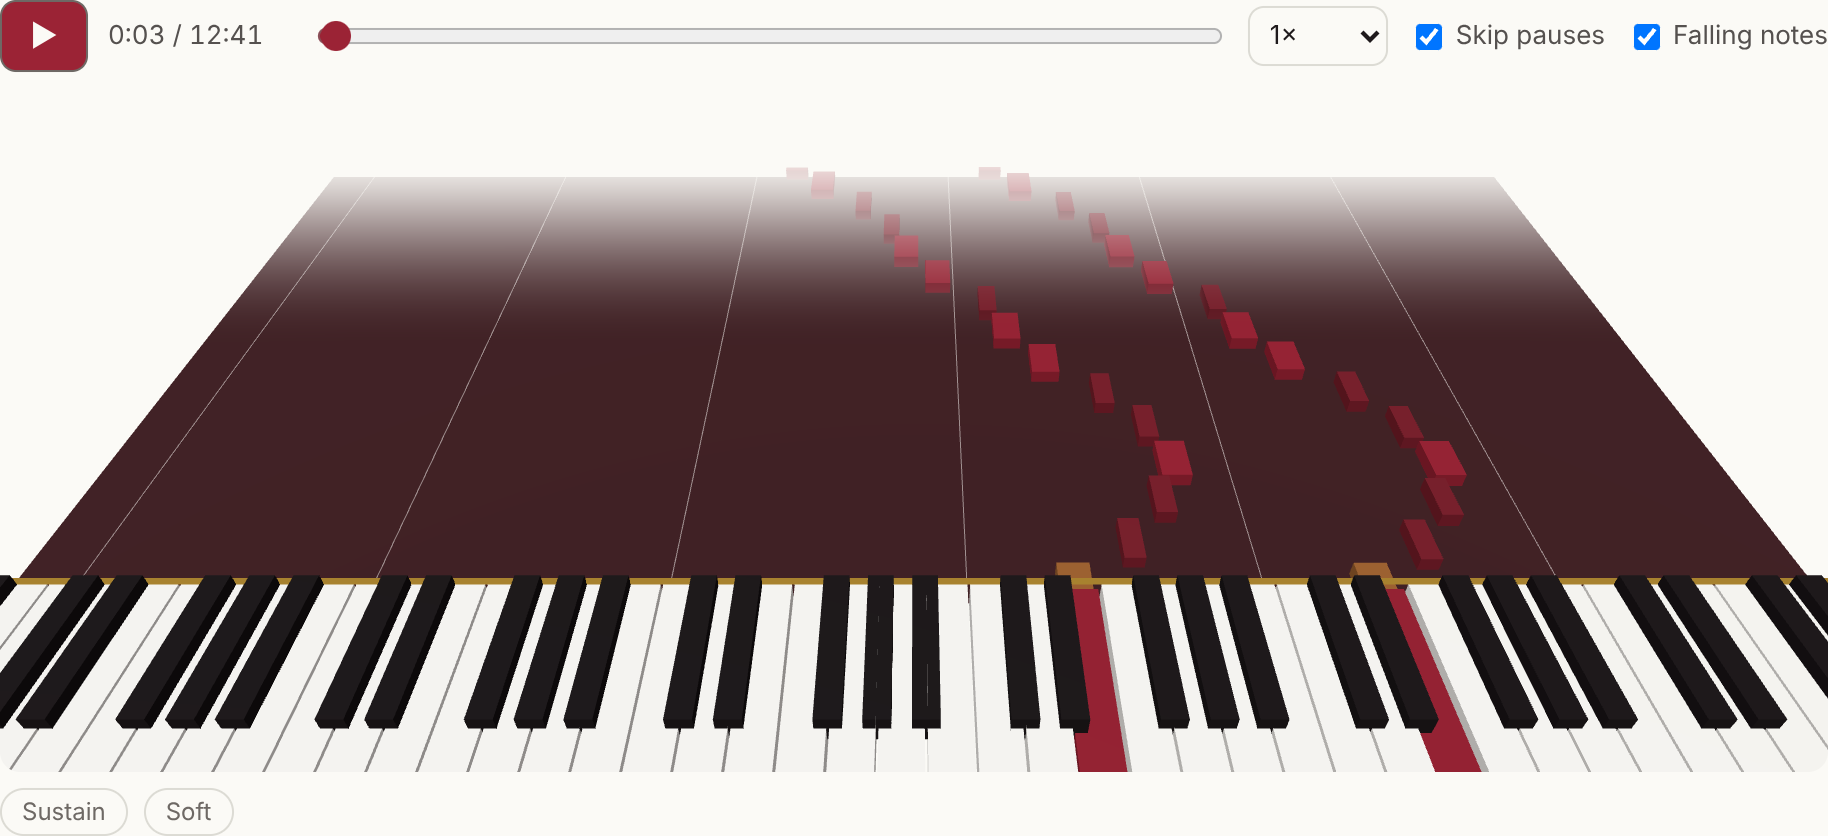
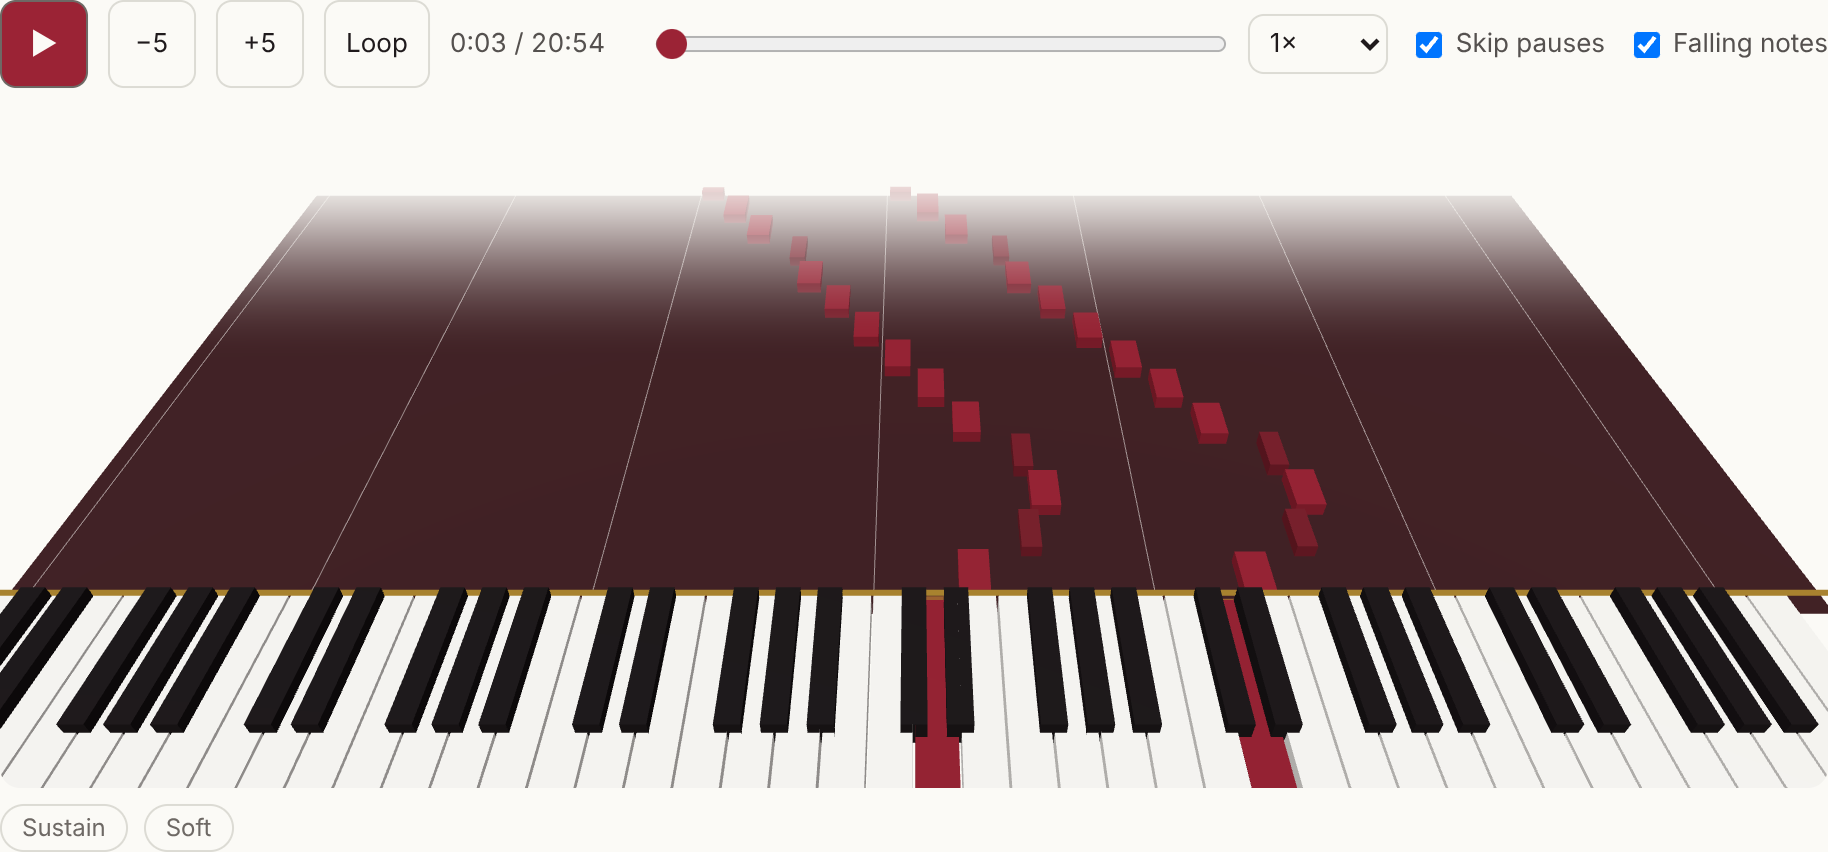
Replay: Loop this spot, −5 s / +5 s, Space plays
Replay review (Next #2): Loop repeats 4 s either side of the spot a ▶ jumped to
(a trouble spot), or of where you are; it is shaded on the seek bar and ends when
you tap it again or seek outside it. Notes past B are never scheduled and every
voice is released at B, so nothing hangs over the wrap, with falling notes on or
off. play() starts once even when tapped again while the piano loads (halt()
calls off a pending start). Space plays and pauses while the session card is in
view. Also: the Details fold's hairline used an undefined --line token.

Claude-Session: https://claude.ai/code/session_01XCCUDBuyTevP1K1S3AtivC

diff --git a/pianotrack/static/replay.js b/pianotrack/static/replay.js
@@ -9,6 +9,8 @@ const LOWEST = 21, HIGHEST = 108;
 const PAUSE_LIMIT = 3.0;   // "skip pauses" squeezes silences longer than this...
 const PAUSE_KEEP = 1.5;    // ...down to this
 const LOOKAHEAD = 0.25;    // seconds of audio scheduled ahead
+const LOOP_HALF = 4;       // "Loop" repeats this many seconds either side of the spot
+const STEP = 5;            // the −5 s / +5 s buttons
 
 class PianoSampler {
   constructor() {
@@ -148,6 +150,9 @@ class Replay {
     this.voices = [];
     this.timer = null;
     this.raf = null;
+    this.loop = null;   // {a, b} in player time while looping
+    this.mark = null;   // where the last jump() landed; Loop centres on it
+    this.starting = false; this.startToken = 0;  // a play() waiting for the piano
     this.build();
   }
 
@@ -156,8 +161,12 @@ class Replay {
     r.innerHTML = `
       <div class="rp-bar">
         <button class="rp-play" aria-label="Play">▶</button>
+        <button class="rp-step" data-d="-${STEP}" aria-label="Back ${STEP} seconds">−${STEP}</button>
+        <button class="rp-step" data-d="${STEP}" aria-label="Forward ${STEP} seconds">+${STEP}</button>
+        <button class="rp-loop" aria-pressed="false" title="Repeat ${LOOP_HALF} s either side of this spot">Loop</button>
         <span class="rp-time">0:00 / 0:00</span>
-        <input class="rp-seek" type="range" min="0" max="1000" value="0" aria-label="Seek">
+        <span class="rp-seekbox"><span class="rp-band" hidden></span>
+          <input class="rp-seek" type="range" min="0" max="1000" value="0" aria-label="Seek"></span>
         <select class="rp-speed" aria-label="Speed">
           <option value="0.5">0.5×</option><option value="0.75">0.75×</option>
           <option value="1" selected>1×</option><option value="1.5">1.5×</option><option value="2">2×</option>
@@ -169,13 +178,15 @@ class Replay {
       <div class="rp-kbd"></div>
       <div class="rp-status"><span class="rp-sus">Sustain</span><span class="rp-soft">Soft</span><span class="rp-msg"></span></div>`;
     this.$ = (sel) => r.querySelector(sel);
-    this.$(".rp-play").onclick = () => (this.playing ? this.pause() : this.play());
-    this.$(".rp-seek").oninput = (e) => this.seek(e.target.value / 1000 * (this.prep ? this.prep.duration : 0));
+    this.$(".rp-play").onclick = () => this.toggle();
+    this.root.querySelectorAll(".rp-step").forEach((b) => b.onclick = () => { this.mark = null; this.seek(this.pos + +b.dataset.d); });
+    this.$(".rp-loop").onclick = () => this.toggleLoop();
+    this.$(".rp-seek").oninput = (e) => { this.mark = null; this.seek(e.target.value / 1000 * (this.prep ? this.prep.duration : 0)); };
     this.$(".rp-speed").onchange = (e) => { const was = this.playing; this.pause(); this.speed = +e.target.value; if (was) this.play(); };
     this.$(".rp-skip input").onchange = (e) => {
       const frac = this.prep ? this.pos / this.prep.duration : 0;
       const was = this.playing; this.pause();
-      this.skip = e.target.checked; this.prep = prepare(this.data, this.skip);
+      this.skip = e.target.checked; this.prep = prepare(this.data, this.skip); this.setLoop(null); this.mark = null;
       if (this.view) this.view.setNotes(this.prep, (t) => this.firstIndexFrom(t));
       this.pos = frac * this.prep.duration; this.draw(); if (was) this.play();
     };
@@ -244,7 +255,7 @@ class Replay {
     this.data = await r.json();
     this.prep = prepare(this.data, this.skip);
     if (this.view) this.view.setNotes(this.prep, (t) => this.firstIndexFrom(t));
-    this.pos = 0;
+    this.pos = 0; this.mark = null; this.setLoop(null);
     this.draw();
   }
 
@@ -254,8 +265,49 @@ class Replay {
     await this.load(id);
     if (this.id !== id || !this.prep) return;
     const was = this.playing;
-    this.seek(this.prep.map(t));  // carries on playing if it was
+    this.mark = this.prep.map(t);
+    this.seek(this.mark);  // carries on playing if it was
     if (play && !was) this.play();
+  }
+
+  toggle() { if (this.playing || this.starting) this.pause(); else this.play(); }
+
+  // Loop: repeat LOOP_HALF seconds either side of the last jump point (or of where
+  // you are), until Loop is tapped again or you seek outside it.
+  toggleLoop() {
+    if (!this.prep) return;
+    if (this.loop) { this.setLoop(null); return; }
+    piano.unlock();
+    // The spot a ▶ jumped to, unless playback has since moved well past it.
+    const near = this.mark != null && Math.abs(this.pos - this.mark) <= 2 * LOOP_HALF;
+    const c = near ? this.mark : this.pos, d = this.prep.duration;
+    this.setLoop({ a: Math.max(0, c - LOOP_HALF), b: Math.min(d, c + LOOP_HALF) });
+    this.seek(this.loop.a);
+    if (!this.playing) this.play();
+  }
+
+  setLoop(loop) {
+    this.loop = loop;
+    if (!this.$) return;
+    const btn = this.$(".rp-loop"), band = this.$(".rp-band");
+    btn.setAttribute("aria-pressed", loop ? "true" : "false");
+    band.hidden = !loop;
+    if (loop) {
+      const d = this.prep.duration || 1;
+      // The thumb is 16 px wide, so the track runs from 8 px to width − 8 px.
+      band.style.left = `calc(8px + (100% - 16px) * ${loop.a / d})`;
+      band.style.width = `calc((100% - 16px) * ${(loop.b - loop.a) / d})`;
+    }
+  }
+
+  // Back to A without stopping the clock: notes past B were never scheduled and
+  // every voice was already released at B, so nothing hangs over the jump.
+  wrap() {
+    for (const v of this.voices) piano.release(v.voice, 0);
+    this.voices = [];
+    this.ctxStart = piano.ctx.currentTime + 0.02;
+    this.posStart = this.pos = this.loop.a;
+    this.next = this.firstIndexFrom(this.loop.a);
   }
 
   // Call straight from a tap, before anything awaited: Safari only starts audio there.
@@ -263,17 +315,27 @@ class Replay {
 
   async play() {
     if (!this.prep || !this.prep.notes.length) return;
+    // One start at a time: a tap, Space or Loop while the piano loads must not
+    // start a second clock. halt() cancels a start still waiting here.
+    if (this.playing || this.starting) return;
     piano.unlock();
-    if (Object.keys(piano.buffers).length < 30) {
-      this.$(".rp-msg").textContent = "Loading piano…";
-      try { await piano.load(); } catch (e) {
-        console.error(e);
-        this.$(".rp-msg").textContent = "Could not load the piano sound. Reload the page and try again.";
-        return;
+    this.starting = true;
+    const token = ++this.startToken;
+    try {
+      if (Object.keys(piano.buffers).length < 30) {
+        this.$(".rp-msg").textContent = "Loading piano…";
+        try { await piano.load(); } catch (e) {
+          console.error(e);
+          this.$(".rp-msg").textContent = "Could not load the piano sound. Reload the page and try again.";
+          return;
+        }
+        this.$(".rp-msg").textContent = "";
       }
-      this.$(".rp-msg").textContent = "";
+      await piano.ctx.resume();
+    } finally {
+      if (token === this.startToken) this.starting = false;
     }
-    await piano.ctx.resume();
+    if (token !== this.startToken || this.playing) return;
     if (this.pos >= this.prep.duration - 0.05) this.pos = 0;
     this.playing = true;
     this.$(".rp-play").textContent = "❚❚";
@@ -283,13 +345,14 @@ class Replay {
     this.next = this.firstIndexFrom(this.pos);
     this.timer = setInterval(() => this.schedule(), 50);
     this.schedule();
-    const tick = () => { if (!this.playing) return; this.pos = this.now(); this.draw(); this.raf = requestAnimationFrame(tick); };
+    const tick = () => { if (!this.playing) return; this.pos = this.loop ? Math.min(this.now(), this.loop.b) : this.now(); this.draw(); this.raf = requestAnimationFrame(tick); };
     this.raf = requestAnimationFrame(tick);
   }
 
   pause() {
-    if (!this.playing) return;
-    this.pos = this.now();
+    if (!this.playing) { if (this.starting) this.halt(); return; }
+    this.pos = this.loop ? Math.min(this.now(), this.loop.b) : this.now();
+    if (this.loop && this.pos >= this.loop.b) this.pos = this.loop.a;
     this.halt();
     this.draw();
   }
@@ -298,6 +361,7 @@ class Replay {
 
   halt() {
     this.playing = false;
+    this.starting = false; this.startToken++;  // a start still loading the piano is called off
     clearInterval(this.timer); cancelAnimationFrame(this.raf);
     piano.silence();
     for (const v of this.voices) piano.release(v.voice, 0);
@@ -306,9 +370,10 @@ class Replay {
   }
 
   seek(t) {
-    const was = this.playing;
+    const was = this.playing || this.starting;
     this.halt();
     this.pos = Math.max(0, Math.min(t, this.prep ? this.prep.duration : 0));
+    if (this.loop && (this.pos < this.loop.a - 0.01 || this.pos > this.loop.b)) this.setLoop(null);
     this.draw();
     if (was) this.play();
   }
@@ -323,14 +388,16 @@ class Replay {
   }
 
   schedule() {
-    const until = this.now() + LOOKAHEAD * this.speed;
+    if (this.loop && this.now() >= this.loop.b) this.wrap();
+    const end = this.loop ? this.loop.b : Infinity;
+    const until = Math.min(end, this.now() + LOOKAHEAD * this.speed);
     const notes = this.prep.notes;
     while (this.next < notes.length && notes[this.next].on < until) {
       const n = notes[this.next++];
       const voice = piano.play(n.pitch, n.vel, this.toCtx(n.on), n.soft);
       if (voice) {
-        piano.release(voice, this.toCtx(n.sound));
-        this.voices.push({ voice, end: n.sound });
+        piano.release(voice, this.toCtx(Math.min(n.sound, end)));
+        this.voices.push({ voice, end: Math.min(n.sound, end) });
       }
     }
     const t = this.now();

diff --git a/pianotrack/static/index.html b/pianotrack/static/index.html
@@ -176,9 +176,15 @@ tr.sel td { background: var(--accent-soft) !important; }
 .topkeys b { color: var(--text); }
 .chip { border: 1px solid var(--border); border-radius: 4px; padding: 3px 10px; font-variant-numeric: tabular-nums; }
 .rp-bar { display: flex; gap: 10px; align-items: center; flex-wrap: wrap; margin-bottom: 10px; }
-.rp-play { width: 44px; height: 36px; font-size: 15px; background: var(--accent); color: var(--surface); border-color: var(--accent); }
+.rp-play { width: 44px; height: 44px; font-size: 15px; background: var(--accent); color: var(--surface); border-color: var(--accent); }
 .rp-time { font-variant-numeric: tabular-nums; font-size: 13px; color: var(--text-2); min-width: 92px; }
-.rp-seek { flex: 1; min-width: 140px; accent-color: var(--accent); }
+.rp-seekbox { flex: 1; min-width: 140px; position: relative; display: flex; align-items: center; }
+.rp-seek { flex: 1; min-width: 0; margin: 0; accent-color: var(--accent); position: relative; }
+.rp-band { position: absolute; top: 50%; height: 16px; transform: translateY(-50%); border-radius: 4px;
+  background: var(--accent-soft); outline: 1px solid var(--accent); pointer-events: none; }
+.rp-band[hidden] { display: none; }
+.rp-step, .rp-loop { min-width: 44px; height: 44px; padding: 0 10px; font-size: 13px; font-variant-numeric: tabular-nums; }
+.rp-loop[aria-pressed="true"] { background: var(--accent-soft); border-color: var(--accent); color: var(--text); }
 .rp-speed { font: inherit; font-size: 13px; padding: 5px 6px; border-radius: 8px; border: 1px solid var(--border); background: var(--surface); color: var(--text); }
 .rp-skip { font-size: 13px; color: var(--text-2); display: inline-flex; gap: 4px; align-items: center; }
 .rp-kbd { overflow-x: auto; }
@@ -197,7 +203,7 @@ footer { margin-top: 24px; font-size: 12px; color: var(--muted); display: flex; 
 footer a { color: var(--text-2); }
 .scroll-x { overflow-x: auto; }
 .sub-h span { font-weight: 400; color: var(--muted); }
-.d-more { margin-top: 18px; border-top: 1px solid var(--line); padding-top: 10px; }
+.d-more { margin-top: 18px; border-top: 1px solid var(--border); padding-top: 10px; }
 .d-more > summary { cursor: pointer; font-family: var(--serif); font-size: 15px; font-weight: 600; color: var(--text); padding: 6px 0; }
 .d-more > summary span { font-family: var(--sans, inherit); font-weight: 400; font-size: 13px; color: var(--muted); }
 .pc-trouble { list-style: none; padding: 0; margin: 0; }
@@ -1231,6 +1237,16 @@ function falling() {
   }).catch((e) => { console.error(e); box.hidden = true; });
 }
 if (selected) { window.replay.load(selected); falling(); }
+// Space plays and pauses while a session is open, except where Space already
+// means something (typing, a focused button or link).
+document.addEventListener("keydown", (e) => {
+  if (e.code !== "Space" || e.repeat || e.altKey || e.ctrlKey || e.metaKey || !selected || !window.replay) return;
+  const card = $("detail-card"), r = card.getBoundingClientRect();
+  if (card.style.display === "none" || r.bottom < 0 || r.top > innerHeight) return;  // scrolled away: Space scrolls
+  if (e.target.closest("input:not(.rp-seek), select, textarea, button, a, summary, label, [role=button], [contenteditable]")) return;
+  e.preventDefault();
+  window.replay.toggle();
+});
 </script>
 </body>
 </html>
